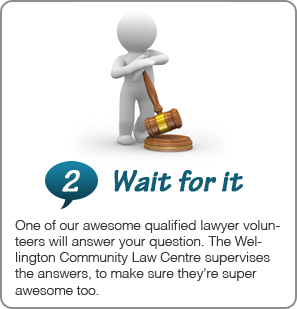
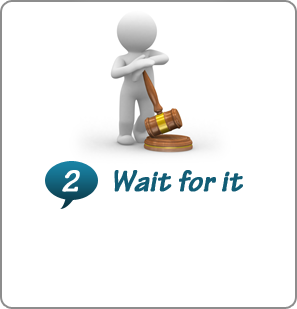
Fixed up how it works page.

Changed region(s): [[0.0303, 0.699, 0.9394, 0.9029], [0.0303, 0.932, 0.3333, 0.9612]]

diff --git a/Views/Static/HowItWorks/HowItWorks.css b/Views/Static/HowItWorks/HowItWorks.css
@@ -10,10 +10,10 @@
 	top: 215px;
 	left: 9px;
 	display: block;
-	background-color: #fff;
 	width: 277px;
-	font-size: 0.95em;
-	padding-bottom: 5px;
+	font-size: 14px;
+    padding-bottom: 5px;
+    line-height: 17px;
 }
 #hiw1 {
 	float: left;
